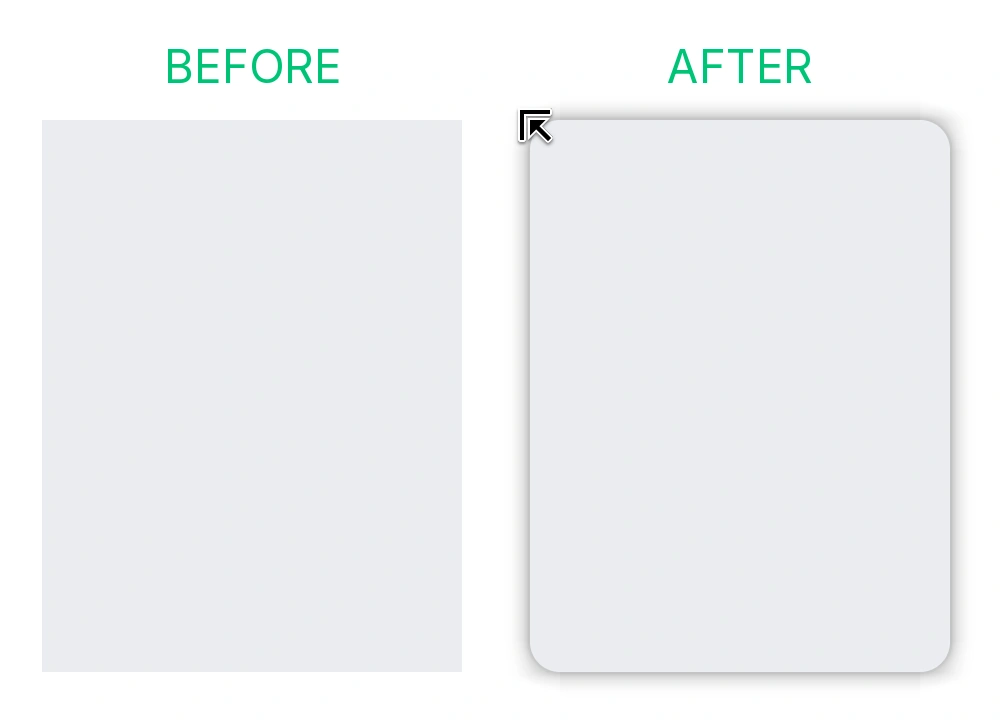
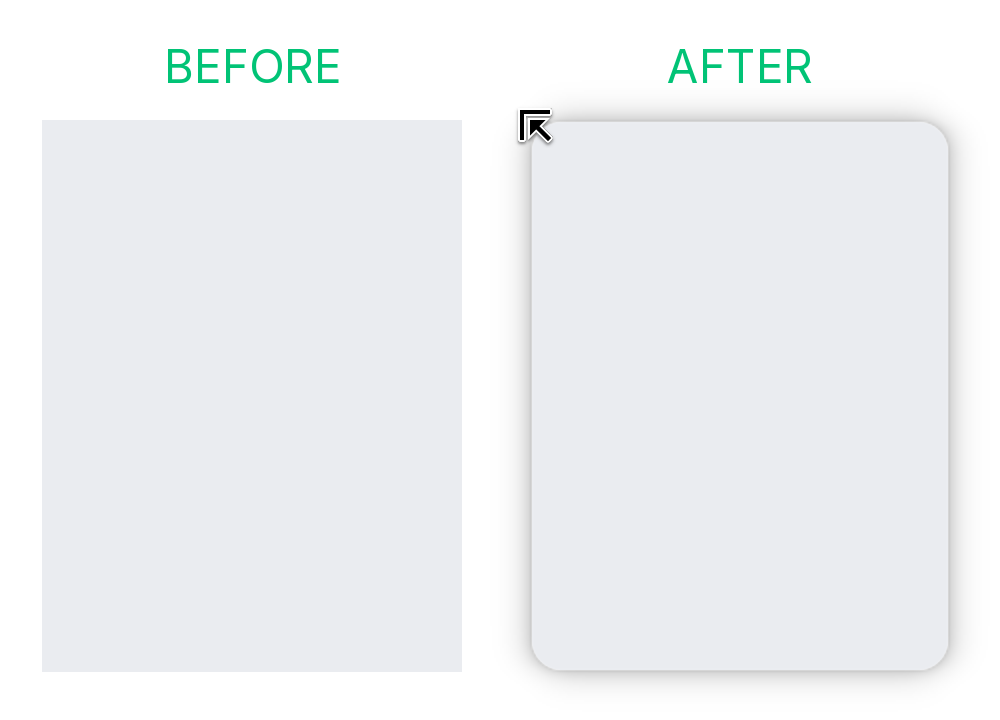
docs(preview): update the comparison asset, and store it losslessly
The asset is a before/after of the decoration, so a diff in it should mean the rendering changed.
At q95 the encoder re-quantises as soon as the content moves even slightly: measured across one
pair of generations, 28% of the AFTER panel differed at a median of 5/765 - where the window's own
profile had done nothing but shift by a pixel, and the flat areas sat +/-1 level off because of it.

Lossless costs nothing here. The image is mostly flat colour, so it comes out smaller than the q95
file did: 7.0 KB against 7.8 KB.

Changed region(s): [[0.155, 0.0611, 0.341, 0.1222], [0.682, 0.0611, 0.806, 0.1222]]

diff --git a/tools/generate-preview.py b/tools/generate-preview.py
@@ -260,7 +260,13 @@ def main():
 
     # 8. Save
     os.makedirs(os.path.dirname(PREVIEW_OUTPUT), exist_ok=True)
-    canvas.save(PREVIEW_OUTPUT, "WEBP", quality=95)
+    # Lossless, so that a diff in this asset means the rendering changed. At q95 the encoder
+    # re-quantises as soon as the content moves even slightly, and that shows up as a scatter of
+    # +/-1 levels well away from anything that moved - measured across one pair of generations:
+    # 28% of the AFTER panel differing at a median of 5/765, where the window's own profile had
+    # done nothing but shift by a pixel. Costs about 2.4x the bytes (7.8 KB -> 18.9 KB) on an image
+    # that is mostly flat colour, which is what makes lossless cheap here.
+    canvas.save(PREVIEW_OUTPUT, "WEBP", lossless=True)
     print(f">> Successfully saved: {PREVIEW_OUTPUT} ({os.path.getsize(PREVIEW_OUTPUT)} bytes)")
 
     # Stop nested shell cleanly
